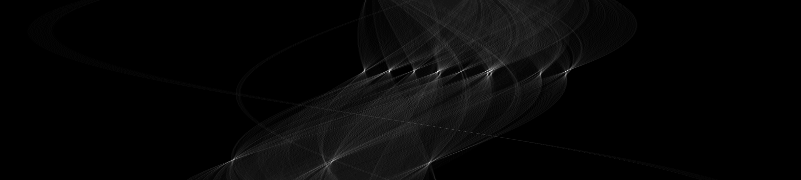
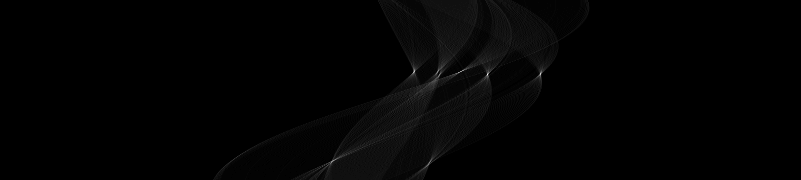
Figures displaying NMS in actions added

diff --git a/01 Classic Vision/Includes/Chamfer_brick_detector.cpp b/01 Classic Vision/Includes/Chamfer_brick_detector.cpp
@@ -4,7 +4,7 @@ Chamfer_brick_detector::Chamfer_brick_detector()
 {
     this->canny_thres_high = 70;
     this->canny_thres_low = 25;
-	this->NMS_thresh = 1200;
+    this->NMS_thresh = 120;
 }
 
 Chamfer_brick_detector::Chamfer_brick_detector(cv::Mat img)
@@ -25,11 +25,12 @@ void Chamfer_brick_detector::detect()
 	this->predictions.clear();
 	this->pred_candidates.clear();
 	compute_chamfer_img();
-	find_rectangle_candidates(60, 100, 110, 5);
+    find_rectangle_candidates(angle_step, scale_min, scale_max, scale_step);
 	//std::cout << this->pred_candidates.size() << std::endl;;
 	//sort list
 	std::sort(this->pred_candidates.begin(), this->pred_candidates.end());
 	//std::cout << "Length before IOU NMS: " << this->pred_candidates.size() << std::endl;
+    this->pred_candidates_unfiltered = this->pred_candidates;
 	apply_IOU_NMS(this->pred_candidates, 0.2, this->pred_candidates);
 	//std::cout << "Length after IOU NMS: " << this->pred_candidates.size() << std::endl;
 	predictions_from_candidates(this->pred_candidates, this->predictions);
@@ -78,7 +79,15 @@ void Chamfer_brick_detector::compute_chamfer_img()
 
 void Chamfer_brick_detector::set_NMS_thresh(double thresh)
 {
-	this->NMS_thresh = thresh;
+    this->NMS_thresh = thresh;
+}
+
+void Chamfer_brick_detector::set_resolution(int angle_step, float scale_min, float scale_max, float scale_step)
+{
+    this->angle_step = angle_step;
+    this->scale_min = scale_min;
+    this->scale_max = scale_max;
+    this->scale_step = scale_step;
 }
 
 void Chamfer_brick_detector::create_template(float scale, float angle, cv::Mat &template_img_dst, cv::RotatedRect &rect_dst)
@@ -118,7 +127,7 @@ void Chamfer_brick_detector::find_rectangle_candidates(int angle_steps, float sc
 	std::vector<prediction_candidate> tmp_candidates;
 	for (int i = 0; i < angle_steps; i++)
 	{
-		for (int j = 0; j < scale_steps; j++)
+        for (int j = 0; j < scale_steps; j++)
 		{
 			//Timer inner_loop("Inner loop");
 			create_template(scale_min + j * scale_res, i * angle_res -90, template_img, tmp_rect);

diff --git a/01 Classic Vision/chamfer_report/main.cpp b/01 Classic Vision/chamfer_report/main.cpp
@@ -8,6 +8,8 @@ int main()
     cv::Mat image;
     image = cv::imread("../../03 Data/Simple Dataset/colorIMG_193.png");
 
+
+    // Prediction
     cv::Mat image_rot_BB = image.clone();
     cv::Mat image_BB = image.clone();
     //cv::resize(image, image, cv::Size(image.size().width * 1.05, image.size().height * 1.05), 0, 0);
@@ -23,6 +25,29 @@ int main()
 
     imwrite("chamfer_pred_rotBB.png", image_rot_BB);
     imwrite("chamfer_pred_BB.png", image_BB);
+
+
+    // Figure Displaying how NMS works
+    chamfer_detector.set_resolution(30, 110, 100, 5);
+    chamfer_detector.set_NMS_thresh(200);
+    chamfer_detector.detect(image);
+
+    image = cv::imread("../../03 Data/Simple Dataset/colorIMG_193.png");
+
+    int len_best_fit = 0;
+    int len_worst_fit = 30;
+    std::vector<prediction_candidate> best_fit(20);
+    std::vector<prediction_candidate> worst_fit(20);
+
+    std::copy(chamfer_detector.pred_candidates_unfiltered.begin(), chamfer_detector.pred_candidates_unfiltered.begin() + len_best_fit, best_fit.begin());
+    std::copy(chamfer_detector.pred_candidates_unfiltered.end() - len_worst_fit, chamfer_detector.pred_candidates_unfiltered.end(), worst_fit.begin());
+    util::print_rotated_bounding_boxes(image, best_fit, cv::Scalar(255, 0, 255), false);
+    util::print_rotated_bounding_boxes(image, worst_fit, cv::Scalar(255, 0, 255), false);
+    util::print_rotated_bounding_boxes(image, chamfer_detector.predictions, cv::Scalar(255, 0, 255));
+
+
+    cv::imshow("Image", image);
+    imwrite("prediction_not_suppressed.png", image);
 
     cout << "Hello World!" << endl;
     cv::waitKey(0);

diff --git a/01 Classic Vision/Includes/util.h b/01 Classic Vision/Includes/util.h
@@ -38,7 +38,7 @@ struct Timer
 
 inline void draw_points(cv::Mat& img, std::vector<cv::Point2f> pt_list, int radius, cv::Scalar color)
 {
-    for (int j = 0; j < pt_list.size(); j++)
+    for (unsigned int j = 0; j < pt_list.size(); j++)
     {
         cv::circle(img, pt_list[j], radius, color, -1, CV_AA);
     }
@@ -104,7 +104,7 @@ inline void print_rotated_bounding_boxes(cv::Mat& img, std::vector<cv::RotatedRe
     }
 }
 
-inline void print_rotated_bounding_boxes(cv::Mat& img, std::vector<prediction_candidate> preds, cv::Scalar color = cv::Scalar(0, 0, 255))
+inline void print_rotated_bounding_boxes(cv::Mat& img, std::vector<prediction_candidate> preds, cv::Scalar color = cv::Scalar(0, 0, 255), bool print_score = true)
 {
     for (unsigned int i = 0; i < preds.size(); i++)
     {
@@ -116,7 +116,11 @@ inline void print_rotated_bounding_boxes(cv::Mat& img, std::vector<prediction_ca
         {
             cv::line(img, rect_points[j], rect_points[(j + 1) % 4], color, 1, 8);
         }
-        cv::putText(img, std::to_string((int)preds[i].distance_score), center - cv::Point(7,-7), 1, 1, cv::Scalar(255, 255, 255));
+        if(print_score == true)
+        {
+             cv::putText(img, std::to_string((int)preds[i].distance_score), center - cv::Point(7,-7), 1, 1, cv::Scalar(255, 255, 255));
+        }
+
     }
 }
 

diff --git a/01 Classic Vision/Includes/Chamfer_brick_detector.h b/01 Classic Vision/Includes/Chamfer_brick_detector.h
@@ -11,13 +11,16 @@ public:
 	void detect(cv::Mat img);
 	void compute_chamfer_img();
 	void set_NMS_thresh(double thresh);
+    void set_resolution(int angle_step, float scale_min, float scale_max, float scale_step);
 	cv::Mat chamfer_img;
 	cv::Mat model_template;
 	cv::Mat matching_space;
     cv::Mat matching_space_disp;
 	std::vector<cv::RotatedRect> best_rects;
 	std::vector<prediction_candidate> pred_candidates;
+    std::vector<prediction_candidate> pred_candidates_unfiltered;
 	void create_template(float scale, float angle, cv::Mat& template_img_dst, cv::RotatedRect& rect_dst);
+
 
 private:
 	void find_edges(cv::Mat& src, cv::Mat& dst);
@@ -30,10 +33,14 @@ private:
 
 	int canny_thres_low;
 	int canny_thres_high;
-	double NMS_thresh;
+    double NMS_thresh;
 
-	int template_padding = 2; //How many pixels to add to the circumfrence of the template Mat.
-	 // OBS: size passer ikke! Skal lige regnes igen.
+    int angle_step = 60;
+    float scale_min = 100.0;
+    float scale_max = 110.0;
+    float scale_step = 5;
+
+    int template_padding = 2;
 	cv::RotatedRect brick_template = cv::RotatedRect(cv::Point2f(0.5, 0.5), cv::Size2f(0.971681, 0.236297), 0);
 
 };

diff --git a/01 Classic Vision/Includes/Brick_Detector.cpp b/01 Classic Vision/Includes/Brick_Detector.cpp
@@ -4,15 +4,15 @@
 
 Brick_Detector::Brick_Detector()
 {
-    this->canny_thres_high = 140;
-    this->canny_thres_low = 60;
+    this->canny_thres_high = 154;
+    this->canny_thres_low = 51;
 }
 
 Brick_Detector::Brick_Detector(cv::Mat img)
 {
     this->img = img;
-    this->canny_thres_high = 140;
-    this->canny_thres_low = 60;
+    this->canny_thres_high = 154;
+    this->canny_thres_low = 51;
 
 }
 
@@ -58,7 +58,7 @@ void Brick_Detector::find_lines()
     cv::Mat edge_img;
     //cv::imshow("src image", this->img);
     find_edges(this->img, edge_img);
-    //cv::rectangle(edge_img, cv::Point(0, 0), cv::Point(50, edge_img.size().height - 1), 0, -1); //mask out pallet
+    cv::rectangle(edge_img, cv::Point(0, 0), cv::Point(50, edge_img.size().height - 1), 0, -1); //mask out pallet
     cv::imshow("edge_img", edge_img);
     this->hough = Hough_space(edge_img);
 

diff --git a/01 Classic Vision/Hough_Report/main.cpp b/01 Classic Vision/Hough_Report/main.cpp
@@ -41,7 +41,7 @@ int main()
     std::cout << min << "  " << max << std::endl;
     cv::normalize(hough, hough, 0, 255, cv::NORM_MINMAX, CV_8UC1);
     cv::imshow("hough space", hough);
-    cv::imshow("hough space rot", hough_rot);
+    //cv::imshow("hough space rot", hough_rot);
 
     cv::waitKey(0);
     cout << "Hello World!" << endl;
@@ -58,9 +58,9 @@ int main()
     cv::imshow("edge_img1", detector.hough.edge_img);
 
     //Save images to disk
-    imwrite("edge_img.png", detector.hough.edge_img);
+    imwrite("edge_img_204_405.png", detector.hough.edge_img);
     imwrite( "hough_space.png", hough );
-    imwrite( "hough_space_rot.png", hough_rot);
+    //imwrite( "hough_space_rot.png", hough_rot);
     imwrite( "lines_hough.png", img_lines);
     imwrite( "BB_hough.png", img_detections);
 

diff --git a/01 Classic Vision/Includes/Hough_space.cpp b/01 Classic Vision/Includes/Hough_space.cpp
@@ -109,7 +109,7 @@ std::vector<std::vector<double>>  Hough_space::find_lines()
     //cv::imshow("hough space bin", hough_space_bin);
     cv::Mat kernel = cv::Mat::ones(3, 3, CV_8U);
     //cv::waitKey(0);
-    for (int i = 0; i < 3; i++) // The number of dialations (i) needs to tuned.
+    for (int i = 0; i < 4; i++) // The number of dialations (i) needs to tuned.
     {
         dilate(hough_space_bin, hough_space_bin, kernel);
     }
